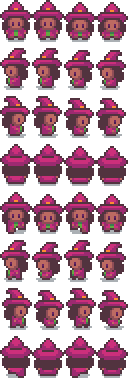
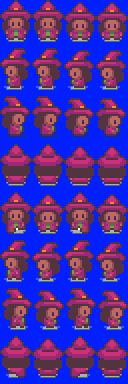
cambio de persojes, nuevos personajes

diff --git a/Jugador.py b/Jugador.py
@@ -89,7 +89,6 @@ class Personaje(MiSprite):
     def mover(self, movimiento):
         self.movimiento = movimiento
 
-
     def actualizarPostura(self):
         self.retardoMovimiento -= 1
         # Miramos si ha pasado el retardo para dibujar una nueva postura
@@ -121,7 +120,9 @@ class Personaje(MiSprite):
         # Las velocidades a las que iba hasta este momento
         (velocidadx, velocidady) = self.velocidad
 
-        
+        if (velocidadx != 0) and (velocidady != 0):
+            velocidadx = COS_45 * velocidadx
+            velocidady = COS_45 * velocidady
         
         # Si vamos a la izquierda o a la derecha        
         if (self.movimiento == IZQUIERDA) or (self.movimiento == DERECHA):
@@ -174,13 +175,13 @@ class Personaje(MiSprite):
                 velocidady = 0
 
                     # Si hay colisión y nos estamos moviendo hacia arriba (subiendo)
-            if (plataforma != None) and (velocidady < 0) and (plataforma.rect.top <= self.rect.top) and (plataforma.rect.bottom <= self.rect.bottom):
+            elif (plataforma != None) and (velocidady < 0) and (plataforma.rect.top <= self.rect.top) and (plataforma.rect.bottom <= self.rect.bottom):
                 # Ajustamos la posición para que el sprite no se "incruste" en la plataforma
                 self.establecerPosicion((self.posicion[0], plataforma.posicion[1] + plataforma.rect.height + 30))
                 velocidady = 0  # Cambia esto según el comportamiento deseado (rebote o detención completa)
 
             if (plataforma != None) and (velocidadx > 0) and (plataforma.rect.right >= self.rect.right) and (plataforma.rect.left >= self.rect.left):
-                self.establecerPosicion((plataforma.posicion[0] - plataforma.rect.width - 20, self.posicion[1]))
+                self.establecerPosicion((plataforma.posicion[0] - plataforma.rect.width - 25, self.posicion[1]))
                 # Lo ponemos como quieto   
                 velocidadx = 0
 
@@ -188,8 +189,6 @@ class Personaje(MiSprite):
                 self.establecerPosicion((plataforma.posicion[0] + plataforma.rect.width + 1, self.posicion[1]))
                 # Lo ponemos como quieto    
                 velocidadx = 0
-
-            
 
         # Actualizamos la imagen a mostrar
         self.actualizarPostura()
@@ -208,9 +207,9 @@ class Personaje(MiSprite):
     
 class Jugador(Personaje):
     "Cualquier personaje del juego"
-    def __init__(self):
+    def __init__(self, archivoImagen, archivoCoordenadas, numImagenes, velocidadCarrera, velocidadSalto, retardoAnimacion):
         # Invocamos al constructor de la clase padre con la configuracion de este personaje concreto
-        Personaje.__init__(self,'alchemist.png','coordJugador.txt', [4, 4, 4, 4, 4, 4, 4, 4], VELOCIDAD_JUGADOR, VELOCIDAD_JUGADOR, RETARDO_ANIMACION_JUGADOR)
+        Personaje.__init__(self, archivoImagen, archivoCoordenadas, numImagenes, velocidadCarrera, velocidadSalto, retardoAnimacion)
 
 
     def mover(self, teclasPulsadas, arriba, abajo, izquierda, derecha):
@@ -222,7 +221,24 @@ class Jugador(Personaje):
         elif teclasPulsadas[derecha]:
             Personaje.mover(self,DERECHA)
         elif teclasPulsadas[abajo]:
-            Personaje.mover(self,ABAJO)
+            Personaje.mover(self,ABAJO)            
         else:
             Personaje.mover(self,QUIETO)
 
+class Alchemist(Jugador):
+    "Personaje Alchemist"
+    def __init__(self):
+        # Invocamos al constructor de la clase padre con la configuracion de este personaje concreto
+        Jugador.__init__(self,'Alchemist.png','coordJugador1.txt', [4, 4, 4, 4, 4, 4, 4, 4], VELOCIDAD_JUGADOR, VELOCIDAD_JUGADOR, RETARDO_ANIMACION_JUGADOR)
+
+class Bartender(Jugador):
+    "Personaje Alchemist"
+    def __init__(self):
+        # Invocamos al constructor de la clase padre con la configuracion de este personaje concreto
+        Jugador.__init__(self,'Bartender.png','coordJugador2.txt', [4, 4, 4, 4, 4, 4, 4, 4], VELOCIDAD_JUGADOR, VELOCIDAD_JUGADOR, RETARDO_ANIMACION_JUGADOR)
+
+class Merchant(Jugador):
+    "Personaje Alchemist"
+    def __init__(self):
+        # Invocamos al constructor de la clase padre con la configuracion de este personaje concreto
+        Jugador.__init__(self,'Merchant.png','coordJugador3.txt', [4, 4, 4, 4, 4, 4, 4, 4], VELOCIDAD_JUGADOR, VELOCIDAD_JUGADOR, RETARDO_ANIMACION_JUGADOR)

diff --git a/Fase.py b/Fase.py
@@ -23,11 +23,17 @@ class Fase:
         #  Si ademas lo hubiese vertical, seria self.scroll = (0, 0)
         self.decorado = Decorado()
         # Creamos los sprites de los jugadores
-        self.jugador1 = Jugador()
-        self.grupoJugadores = pygame.sprite.Group( self.jugador1)
+        self.jugador1 = Alchemist()
+        self.jugador2 = Bartender()
+        self.jugador3 = Merchant()
+        self.grupoJugadores = pygame.sprite.Group(self.jugador1, self.jugador2, self.jugador3)
 
         # Ponemos a los jugadores en sus posiciones iniciales
         self.jugador1.establecerPosicion((200, 462))
+        self.jugador2.establecerPosicion((200, 462))
+        self.jugador3.establecerPosicion((200, 462))
+
+        self.jugador_activo = self.jugador1
 
         # Cargar las coordenadas de las plataformas
         datosPlataformas = GestorRecursos.CargarCoordenadasPlataformas('coordPlataformas.txt')
@@ -40,8 +46,8 @@ class Fase:
             self.grupoPlataformas.add(plataforma)
 
         # Inicializa los grupos de sprites como antes
-        self.grupoSpritesDinamicos = pygame.sprite.Group(self.jugador1)  # Asumiendo que solo hay un jugador por simplicidad
-        self.grupoSprites = pygame.sprite.Group(self.jugador1, self.grupoPlataformas)
+        self.grupoSpritesDinamicos = pygame.sprite.Group(self.jugador_activo)  # Asumiendo que solo hay un jugador por simplicidad
+        self.grupoSprites = pygame.sprite.Group(self.jugador_activo, self.grupoPlataformas)
 
     
     def update(self, tiempo):
@@ -55,16 +61,49 @@ class Fase:
         self.decorado.dibujar(pantalla)
         self.grupoSprites.draw(pantalla)
 
+    def cambiar_jugador(self):
+        
+        if (self.jugador_activo == self.jugador1):
+            nuevo_jugador_activo = self.jugador2
+
+        elif (self.jugador_activo == self.jugador2):
+            nuevo_jugador_activo = self.jugador3
+
+        elif (self.jugador_activo == self.jugador3):
+            nuevo_jugador_activo = self.jugador1
+
+        # Establece la posición del nuevo jugador activo a la posición del actual antes de cambiar
+        nuevo_jugador_activo.establecerPosicion(self.jugador_activo.posicion)
+
+        # Actualiza el grupo de sprites para que contenga al nuevo jugador activo
+        # Primero, elimina el jugador activo actual de los grupos relevantes
+        self.grupoSpritesDinamicos.remove(self.jugador_activo)
+        self.grupoSprites.remove(self.jugador_activo)
+
+        # Luego, agrega el nuevo jugador activo a los grupos
+        self.grupoSpritesDinamicos.add(nuevo_jugador_activo)
+        self.grupoSprites.add(nuevo_jugador_activo)
+
+        # Finalmente, actualiza la referencia de jugador_activo al nuevo jugador
+        self.jugador_activo = nuevo_jugador_activo
+
     def eventos(self, lista_eventos):
         # Miramos a ver si hay algun evento de salir del programa
         for evento in lista_eventos:
             # Si se sale del programa
             if evento.type == pygame.QUIT:
                 return True
+            elif evento.type == pygame.KEYDOWN:
+                # Si la tecla presionada es TAB
+                if evento.key == pygame.K_TAB:
+                    self.cambiar_jugador()
+                    # No necesitas continuar el bucle después de cambiar de jugador
+                    continue
 
         # Indicamos la acción a realizar segun la tecla pulsada para cada jugador
         teclasPulsadas = pygame.key.get_pressed()
-        self.jugador1.mover(teclasPulsadas, K_UP, K_DOWN, K_LEFT, K_RIGHT)
+        self.jugador_activo.mover(teclasPulsadas, K_UP, K_DOWN, K_LEFT, K_RIGHT)
+        
         # No se sale del programa
         return False
     

diff --git a/settings.py b/settings.py
@@ -16,15 +16,13 @@ SPRITE_ANDANDO_IZQ = 5
 SPRITE_ANDANDO_DER = 6
 SPRITE_ARRIBA = 7
 
-
-
-
 VELOCIDAD_JUGADOR = 0.2 # Pixeles por milisegundo
 VELOCIDAD_SALTO_JUGADOR = 0.3 # Pixeles por milisegundo
 RETARDO_ANIMACION_JUGADOR = 5 # updates que durará cada imagen del personaje
                               # debería de ser un valor distinto para cada postura
 
 GRAVEDAD = 0.0003 # Píxeles / ms2
+COS_45 = 0.707
 
 ANCHO_PANTALLA = 800
 ALTO_PANTALLA = 600
